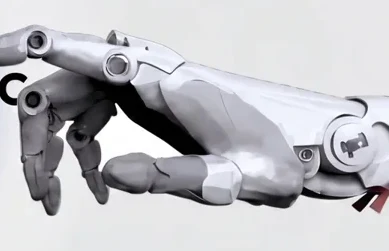
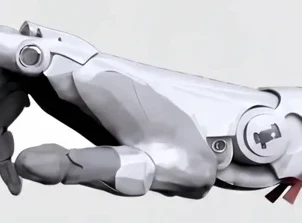
Refine concept composition and unify portfolio business names

diff --git a/components/concepts/ConceptSite.tsx b/components/concepts/ConceptSite.tsx
@@ -22,6 +22,6 @@ export default function ConceptSite({concept:c}:{concept:Concept}){
   <section className="concept-offers" id="explore"><div className="concept-section-head"><span className="concept-eyebrow">02 / Explore {c.brand}</span><span>Three ways to begin.</span></div><div className="concept-offer-grid">{c.offers.map((offer,i)=><article className="concept-reveal" key={offer.title}><span>0{i+1}</span><h3>{offer.title}</h3><p>{offer.body}</p><a href="#contact">Ask about {offer.title.toLowerCase()} <span aria-hidden="true">↗</span></a></article>)}</div></section>
   <section id="contact" className="concept-contact concept-reveal"><span className="concept-eyebrow">03 / Your next step</span><h2>{c.endTitle}</h2><div><p>{c.endBody}</p><button ref={trigger} type="button" className="concept-action" onClick={()=>{setSent(false);dialog.current?.showModal();}}>Try an enquiry <span aria-hidden="true">↗</span></button><small>Example interaction. No message is sent.</small></div></section>
   <footer className="concept-footer"><b>{c.brand}.</b><span>A Fourthform studio concept.</span><Link href="/work">Back to all 20 designs ↗</Link></footer>
-  <dialog ref={dialog} className="concept-enquiry" onCancel={event=>{event.preventDefault();close();}} onClick={event=>{if(event.target===event.currentTarget)close();}} data-lenis-prevent><button type="button" onClick={close} className="concept-close" aria-label="Close enquiry">×</button>{sent?<div role="status"><p className="concept-eyebrow">Example complete</p><h2>A clear next step.</h2><p>This is how an enquiry could feel on your website. Your details have not been saved or sent.</p><button type="button" className="concept-action" onClick={close}>Return to the concept ↗</button></div>:<form onSubmit={event=>{event.preventDefault();setSent(true);}}><p className="concept-eyebrow">An enquiry to {c.brand}</p><h2>Start with a little context.</h2><p>Try the form with example details. Nothing leaves this page.</p><label>Your name<input required name="name" autoComplete="off" maxLength={100}/></label><label>Email address<input required name="email" type="email" autoComplete="off" maxLength={200}/></label><label>What do you have in mind?<textarea required name="message" rows={3} maxLength={2000}/></label><button className="concept-action" type="submit">Preview the response ↗</button></form>}</dialog>
+  <dialog ref={dialog} className="concept-enquiry" aria-labelledby="concept-enquiry-title" onCancel={event=>{event.preventDefault();close();}} onClick={event=>{if(event.target===event.currentTarget)close();}} data-lenis-prevent><button type="button" onClick={close} className="concept-close" aria-label="Close enquiry">×</button>{sent?<div role="status"><p className="concept-eyebrow">Example complete</p><h2 id="concept-enquiry-title">A clear next step.</h2><p>This is how an enquiry could feel on your website. Your details have not been saved or sent.</p><button type="button" className="concept-action" onClick={close}>Return to the concept ↗</button></div>:<form onSubmit={event=>{event.preventDefault();setSent(true);}}><p className="concept-eyebrow">An enquiry to {c.brand}</p><h2 id="concept-enquiry-title">Start with a little context.</h2><p>Try the form with example details. Nothing leaves this page.</p><label>Your name<input required name="name" autoComplete="off" maxLength={100}/></label><label>Email address<input required name="email" type="email" autoComplete="off" maxLength={200}/></label><label>What do you have in mind?<textarea required name="message" rows={3} maxLength={2000}/></label><button className="concept-action" type="submit">Preview the response ↗</button></form>}</dialog>
  </main>;
 }

diff --git a/components/work/ProjectDialog.tsx b/components/work/ProjectDialog.tsx
@@ -20,7 +20,7 @@ export default function ProjectDialog({project, onClose, onNavigate, position, t
     {project&&<div className="work-dialog-layout">
       <header className="work-dialog-top"><span>Selected design · {String(position+1).padStart(2,"0")} / {String(total).padStart(2,"0")}</span><button type="button" onClick={onClose} autoFocus aria-label="Close design preview">Close <span aria-hidden="true">×</span></button></header>
       <div className="work-dialog-media" ref={media} data-lenis-prevent>{still?<img src={project.image} width={project.width} height={project.height} alt={`${project.title}, website design overview`}/>:<iframe key={project.id} src={`/work/${project.id}`} title={`${project.title} live website concept`} loading="eager"/>}</div>
-      <div className="work-dialog-copy"><span className="mk-kicker">{project.sector} · {project.group}</span><h2 id="work-dialog-title">{project.title}</h2><p className="work-dialog-line">{project.line}</p><p id="work-dialog-description">{project.description}</p><div className="work-dialog-techniques"><span className="mk-kicker">The design language</span><ul>{project.techniques.map(technique=><li key={technique}>{technique}</li>)}</ul></div><p className="work-live-label">Browse the page, explore the sections and try an enquiry. The business is fictional; no message is sent.</p><button type="button" className="work-play" aria-pressed={still} onClick={()=>setStill(value=>!value)}>{still?"Explore the live website":"Show the design overview"}<span aria-hidden="true">↗</span></button><a className="work-source" href={project.source} target="_blank" rel="noopener noreferrer">Open the live website ↗</a><p className="work-dialog-disclosure">A Fourthform studio concept. Your website will use your own business, words, imagery and goals.</p></div>
+      <div className="work-dialog-copy"><span className="mk-kicker">{project.sector} · {project.group}</span><h2 id="work-dialog-title">{project.title}</h2><p className="work-dialog-line">{project.line}</p><p id="work-dialog-description">{project.description}</p><div className="work-dialog-techniques"><span className="mk-kicker">The design language</span><ul>{project.techniques.map(technique=><li key={technique}>{technique}</li>)}</ul></div><p className="work-live-label">Browse the page, explore the sections and try an enquiry. The business is fictional; no message is sent.</p><button type="button" className="work-play" aria-pressed={still} onClick={()=>setStill(value=>!value)}>{still?"Explore the live website":"Show the design overview"}<span aria-hidden="true">↗</span></button><a className="work-source" href={`/work/${project.id}`} target="_blank" rel="noopener noreferrer">Open the live website ↗</a><p className="work-dialog-disclosure">A Fourthform studio concept. Your website will use your own business, words, imagery and goals.</p></div>
       <footer className="work-dialog-bottom"><button type="button" onClick={()=>onNavigate(-1)} aria-label="Previous design"><span aria-hidden="true">←</span><span className="work-navigation-label">Previous</span></button><span className="work-keyboard-hint">Use ← → to explore</span><Link className="mk-button mk-button-dark work-reference" href={`/preview/start?reference=${project.id}`}>Use this reference ↗</Link><button type="button" onClick={()=>onNavigate(1)} aria-label="Next design"><span className="work-navigation-label">Next</span><span aria-hidden="true">→</span></button></footer>
     </div>}
   </dialog>;

diff --git a/app/concepts.css b/app/concepts.css
@@ -19,3 +19,7 @@
 @media(max-width:900px){.concept-hero{min-height:620px;gap:30px}.concept-art{height:460px}.concept-product .concept-art,.concept-expressive .concept-art{height:460px}.concept-intro{grid-template-columns:1fr 2fr;gap:25px}.concept-form{display:none}.concept-offer-grid{gap:25px}.concept-hero h1{font-size:58px}.concept-landscape .concept-hero h1{font-size:76px}.concept-nav>div{gap:22px}}
 @media(max-width:760px){.concept-studio-bar{padding-inline:5vw;height:48px;font-size:9px;gap:8px}.concept-studio-bar>span{display:none}.concept-studio-brand{font-size:11px}.concept-nav{padding:20px 5vw;gap:14px}.concept-nav>div{gap:14px;font-size:9px}.concept-nav>div a:nth-child(2){display:none}.concept-brand,.concept-expressive .concept-brand{font-size:30px}.concept-hero,.concept-product .concept-hero,.concept-expressive .concept-hero{display:flex;flex-direction:column;align-items:stretch;gap:30px;padding:35px 5vw 70px;min-height:0}.concept-hero-copy{order:0}.concept-art{order:1;height:350px}.concept-product .concept-art,.concept-expressive .concept-art{height:360px}.concept-hero h1,.concept-product .concept-hero h1,.concept-expressive .concept-hero h1{font-size:clamp(48px,12vw,68px);margin:18px 0 22px}.concept-body{font-size:13px;max-width:43ch;margin-bottom:22px}.concept-hero-foot{font-size:8px;bottom:20px;gap:14px}.concept-hero-foot a{gap:9px}.concept-landscape .concept-nav{top:48px}.concept-landscape .concept-hero{min-height:760px;justify-content:flex-end;padding:155px 5vw 90px}.concept-landscape .concept-art{height:100%}.concept-landscape .concept-hero h1{font-size:clamp(59px,14.5vw,82px)}.concept-landscape .concept-art-index{display:none}.concept-intro{padding:65px 5vw;grid-template-columns:1fr;gap:24px}.concept-intro h2{font-size:32px}.concept-offers{padding:50px 5vw 65px}.concept-section-head{align-items:flex-start;gap:18px;margin-bottom:32px}.concept-section-head>span:last-child{font-size:20px;max-width:11ch;text-align:right}.concept-offer-grid{grid-template-columns:1fr;gap:36px}.concept-offer-grid h3{margin:15px 0;font-size:34px}.concept-offer-grid p{min-height:0;max-width:44ch}.concept-contact{padding:48px 0 55px;grid-template-columns:1fr;gap:24px}.concept-contact h2{font-size:54px;max-width:14ch}.concept-contact p{font-size:13px}.concept-footer{flex-wrap:wrap;font-size:9px;gap:18px}.concept-footer>span{margin-left:auto}.concept-footer>a{width:100%;min-height:30px}.concept-enquiry{padding:29px 23px}.work-intro-star.ff-mark{width:36px;height:36px}.work-dialog-media>iframe{height:600px;min-height:600px}}
 @media(prefers-reduced-motion:reduce){.ff-mark,.concept-art>img,.concept-reveal.is-in-view{animation:none!important}.concept-action,.concept-reveal{transition:none}}
+@media(max-width:760px){.concept-brand,.concept-expressive .concept-brand,.concept-product .concept-brand{font-size:clamp(22px,6.4vw,30px)}.concept-nav>div{flex-shrink:0}.concept-nav>div a:first-child{display:none}.concept-brand{min-width:0;overflow-wrap:anywhere}.concept-studio-bar>a:last-child{white-space:nowrap}}
+/* Absolutely positioned landscape artwork must use the whole hero, not a grid cell. */
+.concept-landscape .concept-art{grid-column:auto;grid-row:auto}
+@media(min-width:901px){.concept-hero{min-height:max(720px,calc(100svh - 145px))}.concept-landscape .concept-hero{min-height:calc(100svh - 44px)}}

diff --git a/lib/portfolio/projects.ts b/lib/portfolio/projects.ts
@@ -14,7 +14,7 @@ const notes: Record<string, {group: DesignGroup; sector: string; line: string; d
   "oyla": {group:"Editorial",sector:"Jewellery",line:"The product becomes the portrait.",description:"An oversized fashion portrait carries the jewellery story. Fine serif type, generous white space and a quiet red wordmark keep the composition focused.",techniques:["Art direction","Fine serif typography","Generous white space"]},
   "keel": {group:"Immersive",sector:"Creative",line:"A whole world in the first frame.",description:"Metallic figures and luminous circles create an otherworldly blue landscape. The small navigation and measured headline make space for an ambitious visual idea.",techniques:["Surreal imagery","Monochrome palette","Layered composition"],video:true},
   "playful-idea": {group:"Expressive",sector:"Creative agency",line:"Personality you can almost touch.",description:"A soft, oversized character gives a minimal agency layout its personality. Small corner details and light typography let the character become the memorable part of the page.",techniques:["Tactile character","Unexpected scale","Corner typography"],video:true},
-  "nature-ritual": {group:"Immersive",sector:"Wellness",line:"Freshness, filling the frame.",description:"A botanical product scene fills the page with light, glass and greenery. Widely spaced words frame the central bottle without losing the small practical details.",techniques:["Product world building","Edge typography","Light and texture"],video:true},
+  "nature-ritual": {group:"Immersive",sector:"Botanical drinks",line:"Freshness, filling the frame.",description:"A botanical product scene fills the page with light, glass and greenery. Widely spaced words frame the central bottle without losing the small practical details.",techniques:["Product world building","Edge typography","Light and texture"],video:true},
   "performance-eyewear": {group:"Editorial",sector:"Eyewear",line:"A close look. A strong point of view.",description:"A tightly framed athlete and reflective eyewear create immediate impact. The oversized brand treatment and compact supporting copy balance product detail with a fashion sensibility.",techniques:["Close crop photography","Bold brand scale","Compact copy"]},
   "velorah-hero": {group:"Immersive",sector:"Agency",line:"An invitation into a quieter world.",description:"A night sky, wildflowers and a small human figure build a dreamlike setting. A tall serif headline brings a quieter voice to the scene, with a simple action beneath it.",techniques:["Atmospheric imagery","Elegant serif headline","Focused action"]},
   "prisma-landing": {group:"Editorial",sector:"Creative studio",line:"A portfolio with an editorial rhythm.",description:"Large landscape imagery and oversized type introduce the studio. The full page moves into a personal introduction and a structured presentation of the work, using space to separate each idea.",techniques:["Oversized typography","Editorial pacing","Image led storytelling"]},

diff --git a/app/work/[id]/page.tsx b/app/work/[id]/page.tsx
@@ -4,4 +4,4 @@ import {findConcept,websiteConcepts} from '../../../lib/portfolio/concepts';
 import ConceptSite from '../../../components/concepts/ConceptSite';
 export function generateStaticParams(){return websiteConcepts.map(({id})=>({id}));}
 export async function generateMetadata({params}:{params:Promise<{id:string}>}):Promise<Metadata>{const {id}=await params;const c=findConcept(id);return {title:c?`${c.brand} | Studio concept`:'Studio concept',description:c?.body,alternates:{canonical:`/work/${id}`},openGraph:{images:[{url:`/work/${id}.webp`,alt:`${c?.brand||'Fourthform'} website concept`}]}};}
-export default async function ConceptPage({params}:{params:Promise<{id:string}>}){const c=findConcept((await params).id);if(!c)notFound();return <ConceptSite concept={c}/>;}
+export default async function ConceptPage({params}:{params:Promise<{id:string}>}){const c=findConcept((await params).id);if(!c)notFound();return <ConceptSite key={c.id} concept={c}/>;}

diff --git a/app/work/page.tsx b/app/work/page.tsx
@@ -4,6 +4,6 @@ export const metadata:Metadata = {
   title:"Selected website designs",
   description:"Explore 20 selected designs by Fourthform. Find a visual direction for your own Fourthform website.",
   alternates:{canonical:"/work"},
-  openGraph:{title:"Forms of possibility | Fourthform",description:"20 selected website designs. Many possibilities for your business.",url:"/work",images:[{url:"/work/monolith-hero.webp",alt:"Monolith, an architectural website design by Fourthform"}]},
+  openGraph:{title:"Forms of possibility | Fourthform",description:"20 selected website designs. Many possibilities for your business.",url:"/work",images:[{url:"/work/monolith-hero.webp",alt:"Stratum, an architectural website design by Fourthform"}]},
 };
 export default function WorkPage(){return <WorkGallery/>;}

diff --git a/app/page.tsx b/app/page.tsx
@@ -1,4 +1,4 @@
 import type { Metadata } from "next";
 import MarketingHome from "../components/marketing/MarketingHome";
-export const metadata: Metadata = { alternates: { canonical: "/" }, openGraph: { url: "/", images: [{ url: "/work/monolith-hero.webp", alt: "Monolith, a selected website design by Fourthform" }] } };
+export const metadata: Metadata = { alternates: { canonical: "/" }, openGraph: { url: "/", images: [{ url: "/work/monolith-hero.webp", alt: "Stratum, a selected website design by Fourthform" }] } };
 export default function Home() { return <MarketingHome />; }

diff --git a/docs/FEATURES.md b/docs/FEATURES.md
@@ -5,13 +5,13 @@ Fourthform combines a marketing website, a guided brief and an interactive clien
 ## Marketing and portfolio
 
 - An editorial homepage explaining the audience, custom website service, visitor goals and next action.
-- A three-design hero selector using Monolith Hero, OYLA and Keel from the Fourthform studio collection.
+- A three-design hero selector using Stratum, OYLA and Keel from the Fourthform studio collection.
 - Four featured designs in a staggered image grid, linked to the complete `/work` collection.
 - Twenty selected designs, curated after visually reviewing 49 public previews. All 20 designs now have live concept pages with refined business copy and Fourthform reference links.
 - Immersive, Editorial, Product and Expressive filters with result counts and selected states.
 - Large native dialog previews with project descriptions, three design techniques per project, source links, previous/next controls, arrow-key browsing, Escape dismissal and restored keyboard focus.
 - Direct project links such as `/work?project=oyla`.
-- Four local, silent motion clips, requested explicitly rather than downloaded automatically: Monolith Hero, Keel, Nature Ritual and Playful Idea.
+- Four local, silent motion clips, requested explicitly rather than downloaded automatically: Stratum, Keel, Nature Ritual and Playful Idea.
 - Optimized local WebP images and smaller responsive variants.
 - A chosen design becomes a brief reference without replacing existing business details or links.
 - A four-stage process explanation: Direction, Build, Review and Launch.
